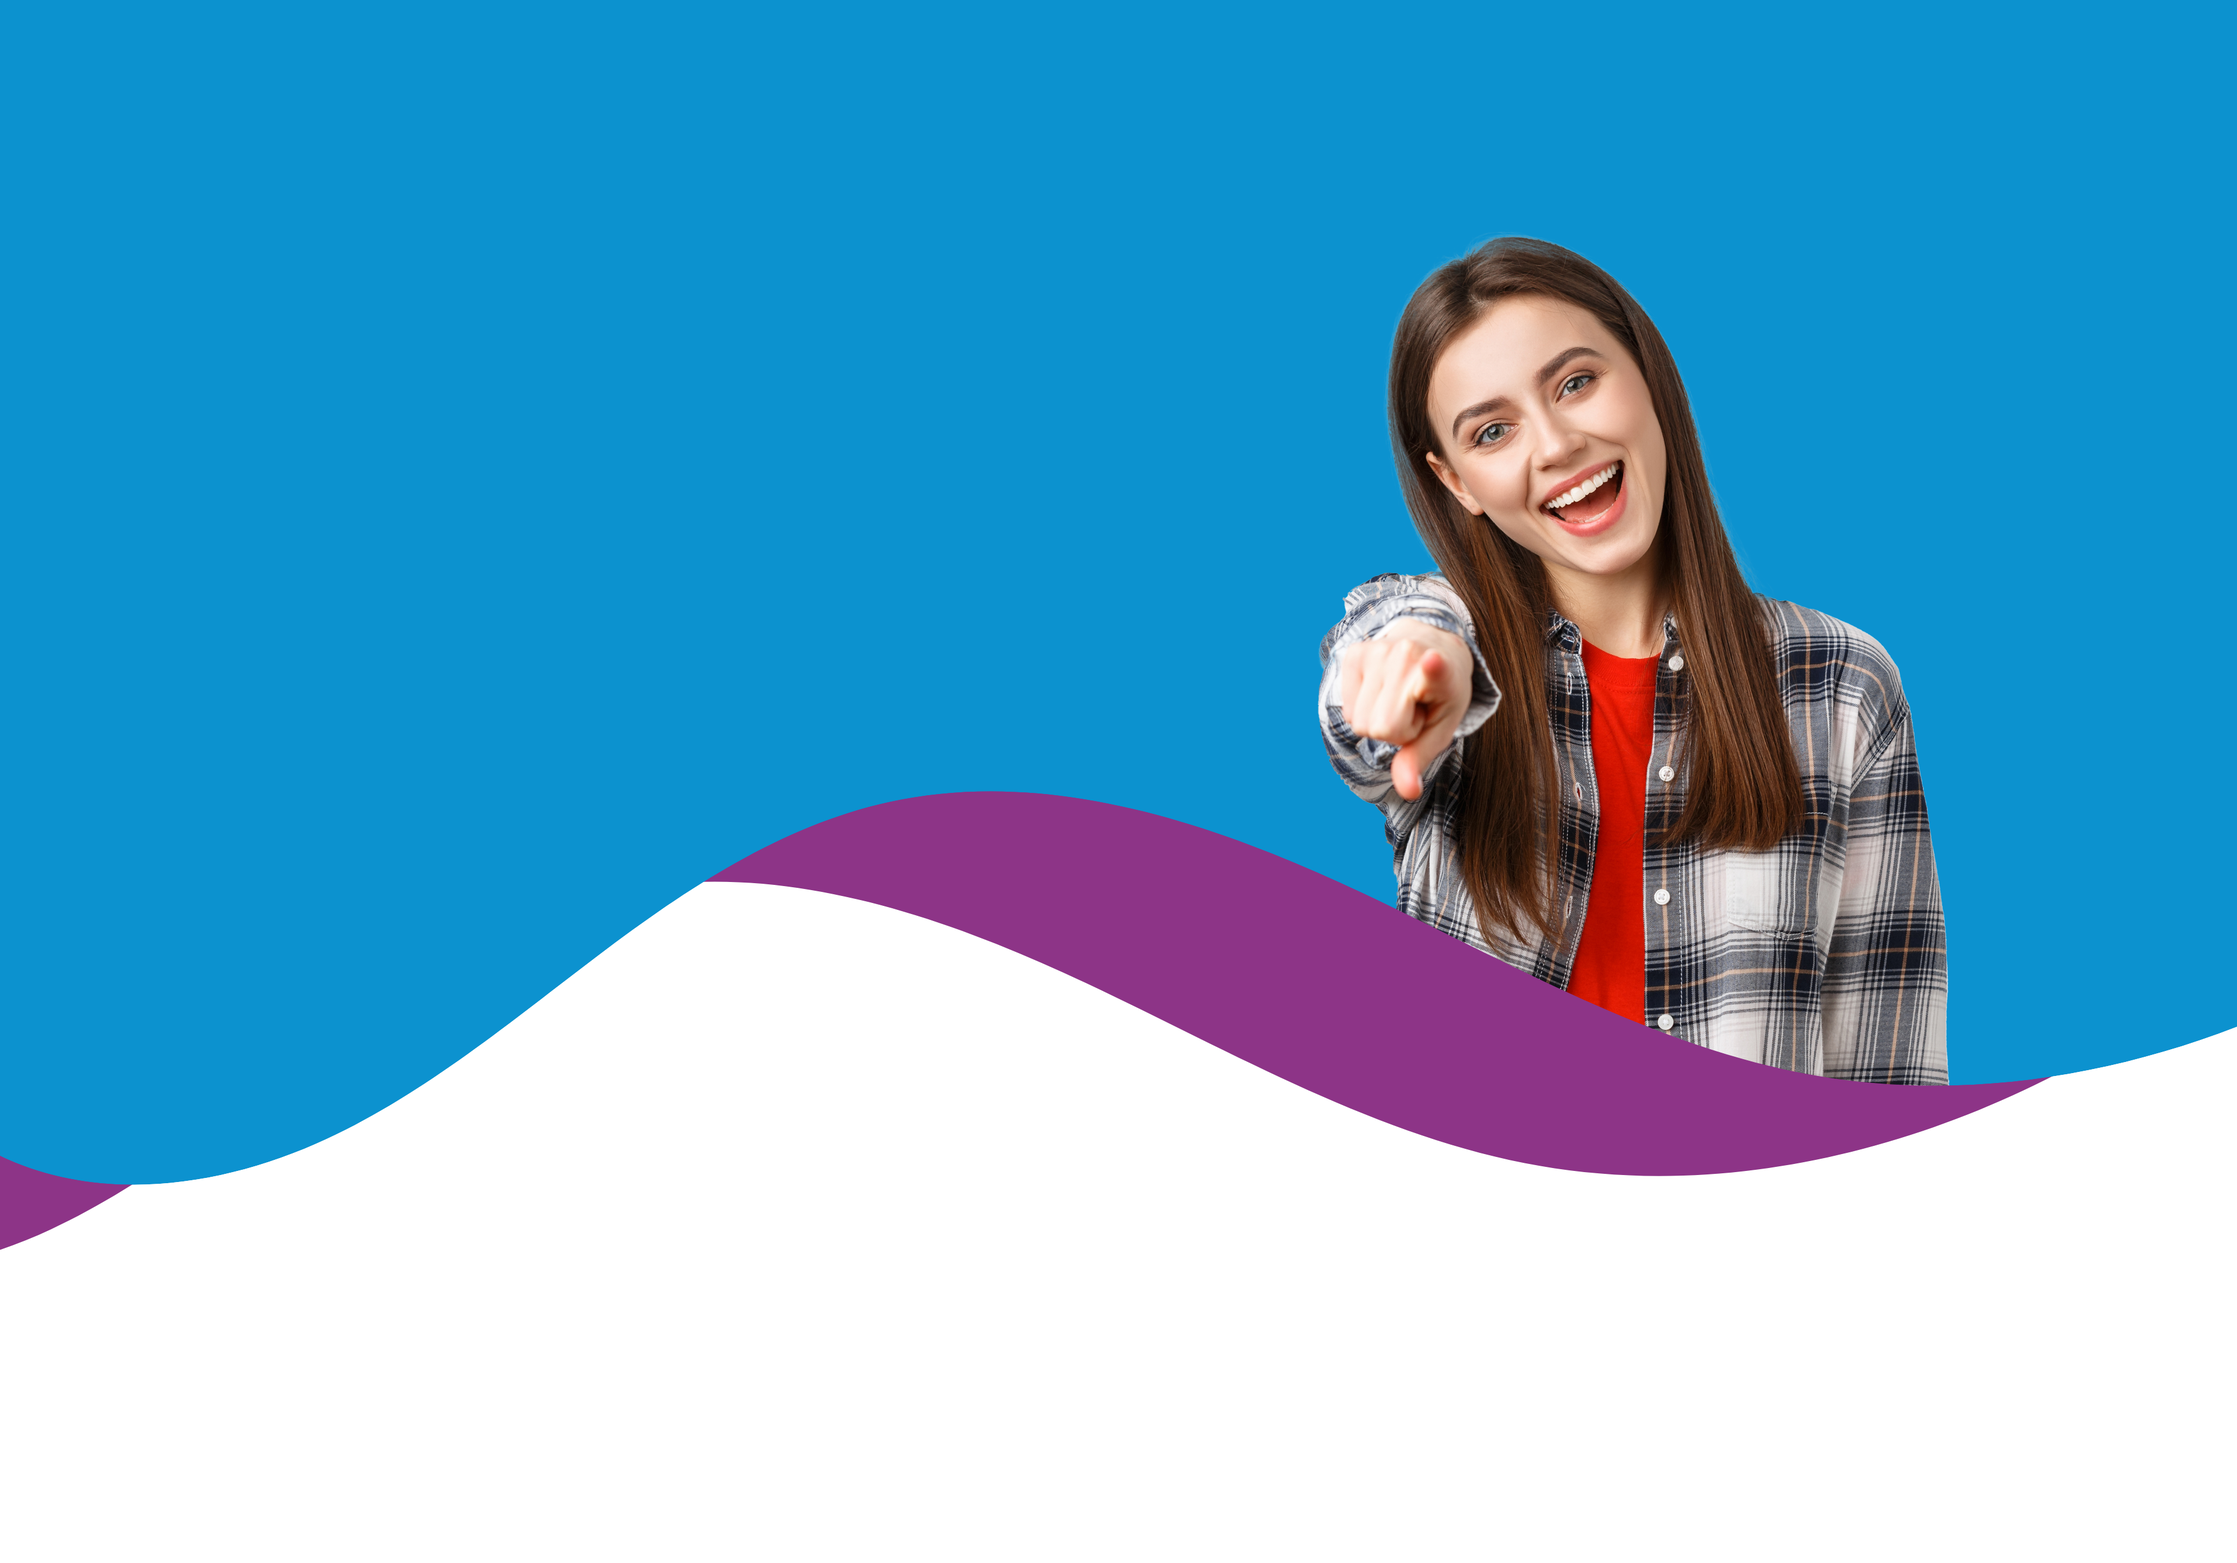
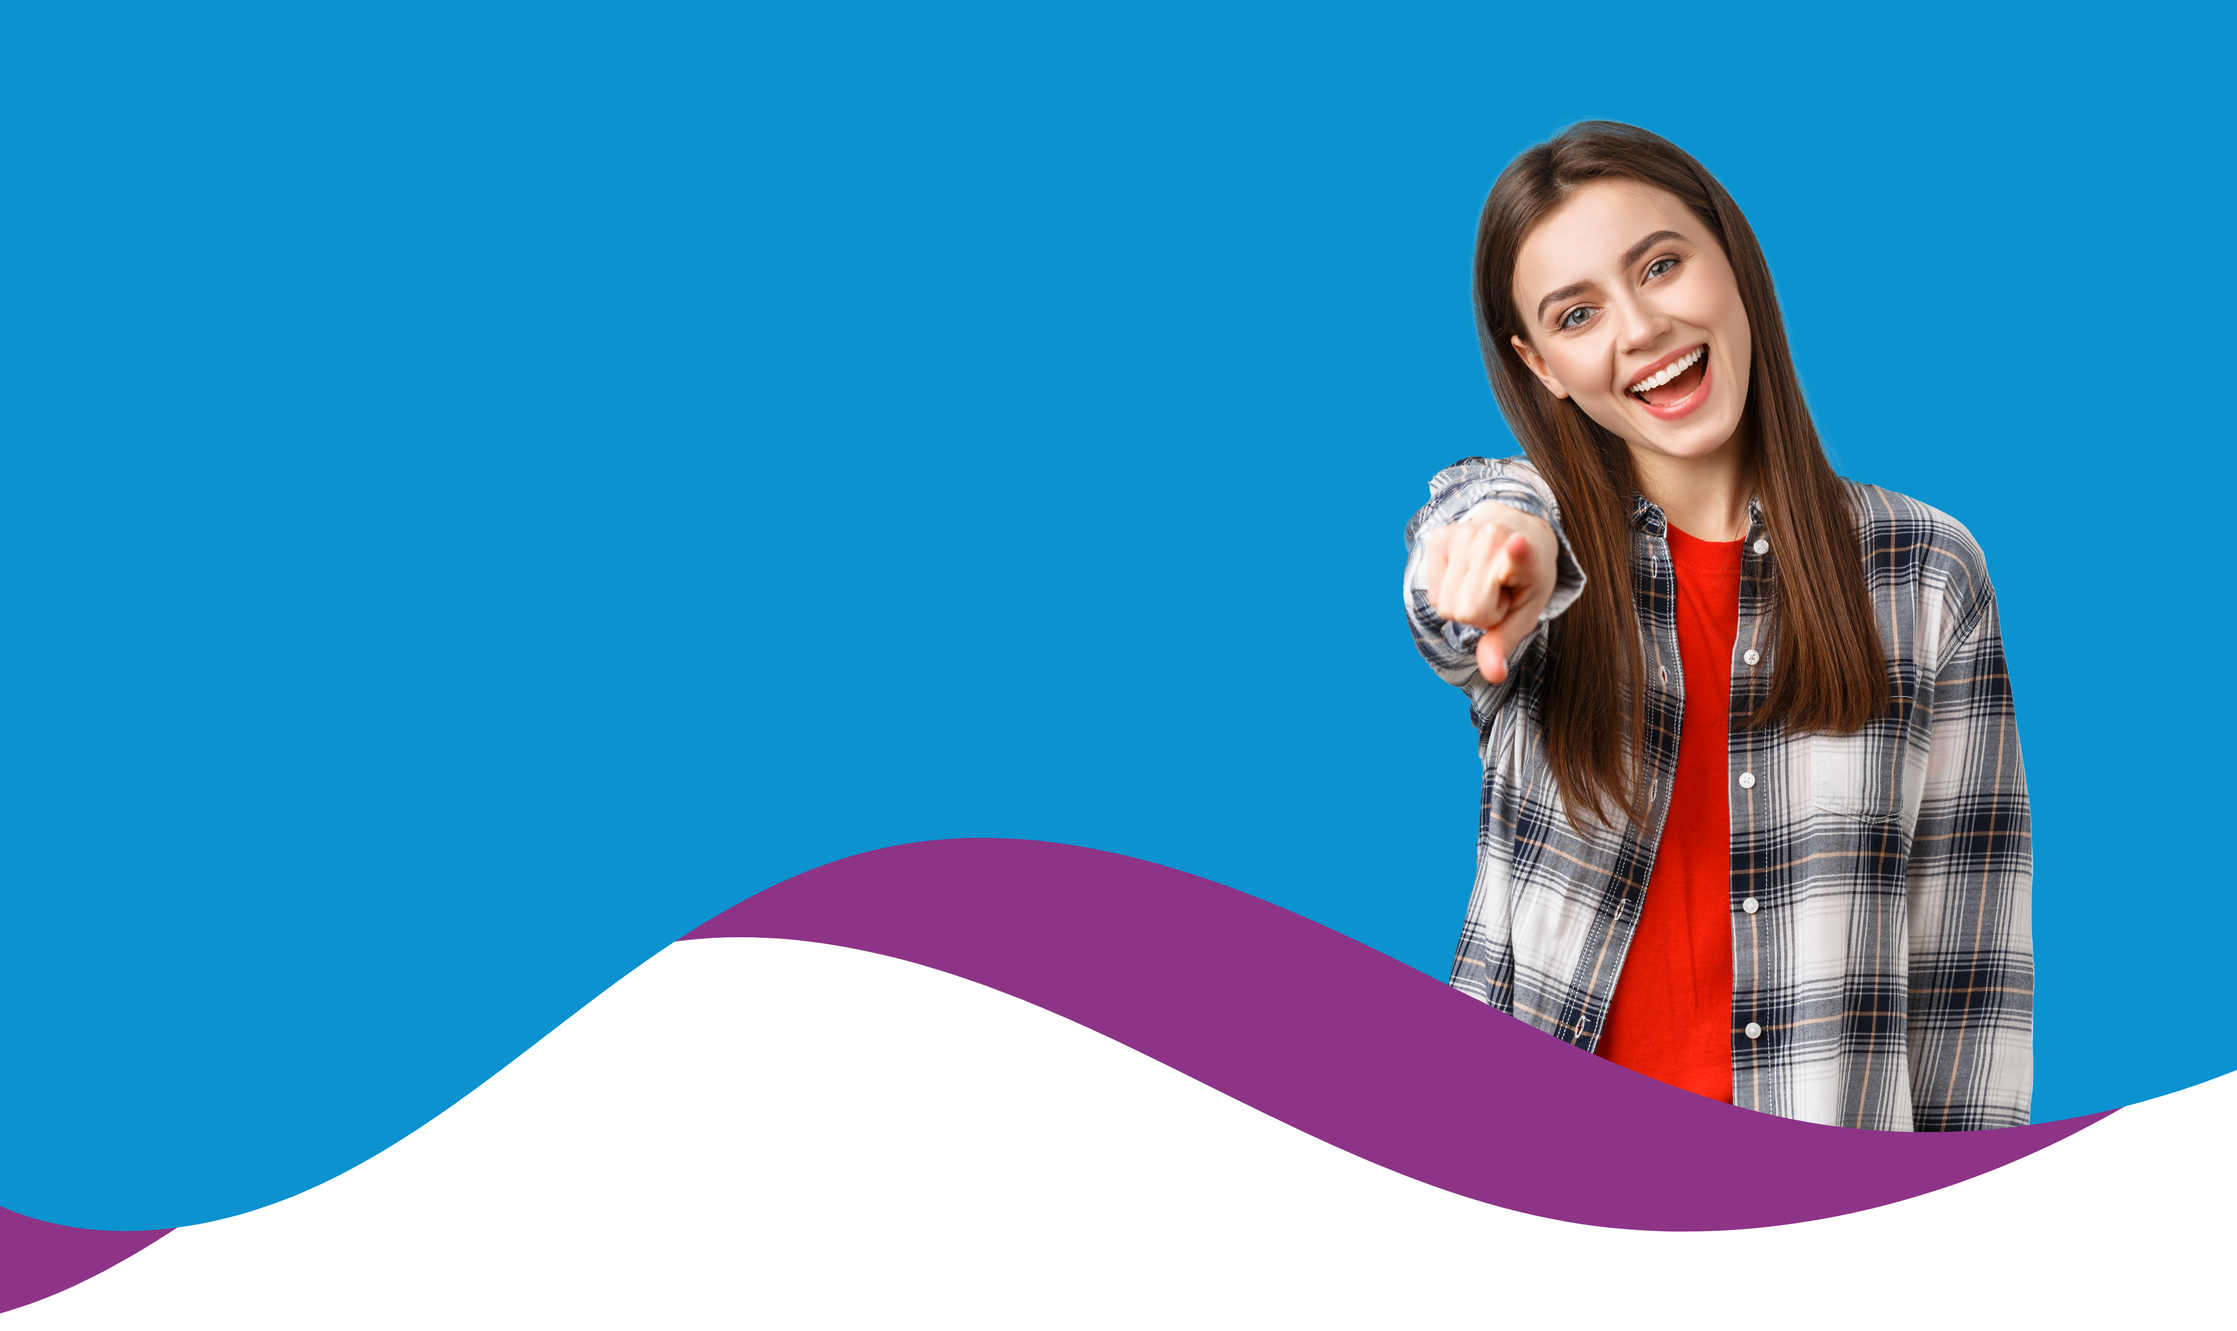
feat: :sparkles: UI components settings

diff --git a/src/pages/Landing/Landing.tsx b/src/pages/Landing/Landing.tsx
@@ -1,17 +1,20 @@
 import React, { useEffect, useState } from 'react'
-import bannerBgImage from '/images/img-main-banner.png'
-import ciomprixLogo from '/images/ciomprix-logo-white.svg'
 import { CategoriesCard, SolutionMiniCard } from '../../components'
-import styles from './Landing.module.scss'
-import { useMainContext } from '../../context'
 import { CarouselSection } from '../../components/CarouselSection'
 import { ICategory } from '../../interfaces'
-import { Link } from 'react-router-dom'
+import { useMainContext } from '../../context'
+import useScreenSize from '../../hooks/useScreenSize'
+
+import bannerBgImage from '/images/img-main-banner.png'
+import bannerBgMobile from '/images/img-main-banner-mobile.png'
+import ciomprixLogo from '/images/ciomprix-logo-white.svg'
+import styles from './Landing.module.scss'
 
 export const Landing = () => {
 
     const { solutions, categories, fetching, getCategoryByIdSolution } = useMainContext()
     const [categoriesBySolution, setCategoriesBySolution] = useState<ICategory[]>([])
+    const { width } = useScreenSize() 
 
     const getCategoriesBySolution = (id_solution: number): ICategory[] => {
         return categories.filter(category => category.id_s === id_solution)
@@ -23,47 +26,48 @@ export const Landing = () => {
     // }, [categoriesBySolution])
 
     return (
-        <div className="bg-white w-full h-full">
+        <div>
+            <header className="flex justify-between items-center px-7 md:px-28 py-5 bg-blue-primary">
+                <figure className="w-40 md:w-auto">
+                    <img src={ciomprixLogo} className='' alt="logo" />
+                </figure>
+
+                <div className="flex-1"></div>
+
+                <ul className="flex-1 justify-between items-center gap-10 hidden md:flex">
+                    <li>item 1</li>
+                    <li>item 2</li>
+                    <li>item 3</li>
+                    <li>item 4</li>
+                </ul>
+            </header>
             <div
-                className={`${styles.landing__banner}`}
+                className={`${styles.landing__banner} mb-5`}
                 style={{
-                    backgroundImage: `url(${bannerBgImage})`
+                    backgroundImage: `url(${width > 1024 ? bannerBgImage : bannerBgMobile})`,
                 }}
             >
-                <header className="flex justify-between items-center px-7 md:px-28 py-5">
-                    <figure>
-                        <img src={ciomprixLogo} alt="logo" />
-                    </figure>
-
-                    <div className="flex-1"></div>
-
-                    <ul className="flex flex-1 justify-between items-center gap-10">
-                        <li>item 1</li>
-                        <li>item 2</li>
-                        <li>item 3</li>
-                        <li>item 4</li>
-                    </ul>
-                </header>
-
-                <section className="w-full max-w-[1500px] mx-auto px-7 md:px-32 my-28">
-                    <h1 className="font-bold text-7xl w-2/4 mb-7">Conoce nuestro portafolio de servicios</h1>
-                    <p className="text-4xl font-normal w-2/4">La forma de generar aprendizaje mas facil</p>
-
-                    <div className={styles.landing__solutions_container}>
-                        {
-                            solutions.map(({ id, img_s, tittle_s }) => (
-                                <SolutionMiniCard key={id} image={img_s} title={tittle_s} />
-                            ))
-                        }
-                    </div>
+                <section className="w-full max-w-[1800px] mx-auto px-7 md:px-32 py-16 lg:py-20">
+                    <h1 className="title max-w-xs mx-auto lg:max-w-lg 2xl:max-w-3xl lg:mx-0 mb-7 text-center lg:text-left">Conoce nuestro portafolio de servicios</h1>
+                    <p className="subtitle max-w-xs mx-auto lg:max-w-lg 2xl:max-w-3xl lg:mx-0 text-center lg:text-left">La forma de generar aprendizaje mas facil</p>
                 </section>
 
             </div>
+
+            <div className={`${styles.landing__solutions_container} mx-auto px-7 md:px-32`}>
+                {
+                    solutions.map(({ id, img_s, tittle_s }) => (
+                        <SolutionMiniCard key={id} image={img_s} title={tittle_s} />
+                    ))
+                }
+            </div>
+
+
             {
-                solutions.map(solution => (
-                    <CarouselSection key={solution.id} element={solutions} title={solution.tittle_s}>
+                solutions.map((solution, i) => (
+                    <CarouselSection key={solution.id} element={solutions} title={solution.tittle_s} className={`${i === 0 ? 'mt-40' : 0}`}>
                         {getCategoriesBySolution(solution.id).map(category => (
-                           <CategoriesCard category={category} />
+                            <CategoriesCard category={category} />
                         ))}
                     </CarouselSection>
                 ))

diff --git a/src/pages/CategoryDetail/CategoryDetail.tsx b/src/pages/CategoryDetail/CategoryDetail.tsx
@@ -1,0 +1,76 @@
+import React, { useEffect } from 'react'
+import { useParams } from 'react-router-dom'
+import { useMainContext } from '../../context'
+import { ContentCard } from '../../components'
+
+import { faArrowLeft } from "@fortawesome/free-solid-svg-icons"
+import { FontAwesomeIcon } from "@fortawesome/react-fontawesome"
+
+import ciomprixLogo from '/images/ciomprix-logo-gray.svg'
+import styles from './CategoryDetail.module.scss'
+
+export const CategoryDetail = () => {
+
+    const { id } = useParams()
+    const { getCategoryById, categoryByID, getSolutionByID, solutionByID, getContentByCategory, contentsByCategory, fetching } = useMainContext()
+
+    useEffect(() => {
+        getCategoryById(Number(id))
+    }, [])
+
+    useEffect(() => {
+        if (!categoryByID) return
+        getSolutionByID(categoryByID.id_s)
+        getContentByCategory(categoryByID.id)
+    }, [categoryByID])
+
+
+    if (fetching) return <h1 className="text-black">Cargando...</h1>
+
+    return (
+        <main>
+            <header className="flex justify-between items-center px-7 md:px-28 py-5 bg-light-gray">
+                <figure>
+                    <img src={ciomprixLogo} alt="logo" />
+                </figure>
+
+                <div className="flex-1"></div>
+
+                <ul className="flex flex-1 justify-between items-center text-gray-500 gap-10">
+                    <li>item 1</li>
+                    <li>item 2</li>
+                    <li>item 3</li>
+                    <li>item 4</li>
+                </ul>
+            </header>
+
+            <section
+                style={{
+                    backgroundImage: `url(${solutionByID ? solutionByID.img_banner_s : ''})`,
+                }}
+                className={`${styles.category_detail__banner} `}
+            >
+                <div className="px-7 md:px-28 max-w-[1800px] mx-auto flex flex-col justify-start pt-20 h-full">
+                    <div className="text-[#191934] text-base font-medium flex items-center gap-5 mb-10 cursor-pointer">
+                        <FontAwesomeIcon icon={faArrowLeft} />
+                        <span> Volver</span>
+                    </div>
+                    <h1 className="text-[#191934] text-7xl font-bold w-2/5 mb-10">{solutionByID?.tittle_s}</h1>
+                    <p className="text-[#191934] text-lg font-medium w-1/3">{categoryByID?.description_c}</p>
+                </div>
+            </section>
+
+            <section className="px-7 md:px-28 max-w-[1800px] mx-auto my-10">
+                <h2 className="text-[#191934] text-3xl font-medium mb-10 pb-5 border-b-[1px] border-[#191934]">{categoryByID?.tittle_c}</h2>
+
+                <div className={`${styles.contents__container}`}>
+                    {
+                        contentsByCategory && contentsByCategory.map( content => (
+                            <ContentCard content={content} />
+                        ))
+                    }
+                </div>
+            </section>
+        </main>
+    )
+}

diff --git a/src/components/CarouselSection/CarouselSection.tsx b/src/components/CarouselSection/CarouselSection.tsx
@@ -11,10 +11,11 @@ import styles from './CarouselSection.module.scss'
 interface CarouselSectionProps {
     children: ReactNode;
     title: string;
-    element: ISolutions[]
+    element: ISolutions[];
+    className?: string;
 }
 
-export const CarouselSection = ({ children, title, element }: CarouselSectionProps) => {
+export const CarouselSection = ({ children, title, element, className }: CarouselSectionProps) => {
 
     const { width } = useScreenSize()
 
@@ -92,7 +93,7 @@ export const CarouselSection = ({ children, title, element }: CarouselSectionPro
     if (!element) return null
 
     return (
-        <section className='w-full px-7 md:px-28 max-w-[1500px] my-24 text-black' ref={widthUsableRef}>
+        <section className={`w-full px-7 md:px-28 max-w-[1500px] my-24 mx-auto text-black ${className}`} ref={widthUsableRef}>
             <h3 className='text-3xl lg:text-4xl font-medium'>{title}</h3>
             {(element.length > jump && identifyDevice() === "computer"/*Identificador de dispositivo*/) &&
                 <div className={`flex flex-row flex-nowrap justify-end my-1 h-8`}>

diff --git a/src/components/ContentCard/ContentCard.tsx b/src/components/ContentCard/ContentCard.tsx
@@ -1,0 +1,28 @@
+import React from 'react'
+import styles from './ContentCard.module.scss'
+import { IContent } from '../../interfaces'
+
+interface ContentCardProps {
+    content: IContent;
+}
+
+export const ContentCard = ({ content }: ContentCardProps) => {
+    return (
+        <div
+            style={{
+                backgroundImage: `url(${content.img_sc})`,
+                backgroundPosition: 'center'
+            }}
+            className={`${styles.content__card} bg-cover w-full h-[370px] rounded-3xl relative overflow-hidden`}
+        >
+            <div className={`${styles.content__card__backdrop}`}>
+                <h4 className='w-full px-4 mb-6 openBold text-base xl:text-xl text-center font-medium'>{content.tittle_sc}</h4>
+                <button
+                    className='w-24 py-1 mb-8 bg-blue-500 px-6 text-white rounded-full text-l text-center openMedium transition-all duration-200 hover:scale-110 hover:text-white'
+                >
+                    Ir
+                </button>
+            </div>
+        </div>
+    )
+}

diff --git a/src/pages/Landing/Landing.module.scss b/src/pages/Landing/Landing.module.scss
@@ -1,14 +1,27 @@
 .landing__banner {
     width: 100%;
-    height: 115vh;
-    background-size: 100% auto;
+    height: 500px;
+    background-size: 100% 100%;
     background-position: 70% 0%;
     background-repeat: no-repeat;
 }
 
 .landing__solutions_container {
     display: grid;
-    grid-template-columns: repeat(4, 1fr);
+    grid-template-columns: repeat(auto-fit, minmax(250px, 1fr));
     gap: 40px;
-    margin-top: 200px;
+    width: 100%;
+    max-width: 1800px;
 }
+
+@media screen and (min-width:1024px) {
+    .landing__banner {
+        height: 700px;
+    }
+}
+
+// @media screen and (min-width: 1375px) {
+//     .landing__solutions_container {
+//         bottom: 0;
+//     }
+// }

diff --git a/src/index.css b/src/index.css
@@ -37,8 +37,18 @@ a:hover {
   width: 100vw;
   min-height: 100vh;
   height: 100%;
-  background-color: #fff;
+  background-color: #EBEBEB;
   overflow-x: hidden;
+}
+
+.title {
+  font-size: 40px;
+  font-weight: bold;
+}
+
+.subtitle {
+  font-size: 24px;
+  font-weight: 400;
 }
 
 body {
@@ -83,5 +93,25 @@ button:focus-visible {
   }
   button {
     background-color: #f9f9f9;
+  }
+}
+
+@media screen and (min-width: 1024px) {
+  .title {
+    font-size: 56px;
+  }
+
+  .subtitle {
+    font-size: 30px;
+  }
+}
+
+@media screen and (min-width:1536px) {
+  .title {
+    font-size: 72px;
+  }
+
+  .subtitle {
+    font-size: 36px;
   }
 }

diff --git a/src/components/CategoriesCard/CategoriesCard.tsx b/src/components/CategoriesCard/CategoriesCard.tsx
@@ -19,7 +19,7 @@ export const CategoriesCard = ({ category }: CategoriesCardProps) => {
             <div className={`${styles.category__card__backdrop}`}>
                 <h4 className='w-full px-4 mb-6 openBold text-base xl:text-xl text-center font-medium'>{category.tittle_c}</h4>
                 <Link
-                    to={'/'}
+                    to={`/category/${category.id}`}
                     className='w-24 py-1 mb-8 bg-blue-500 px-6 text-white rounded-full text-l text-center openMedium transition-all duration-200 hover:scale-110 hover:text-white'
                 >
                     Ir

diff --git a/src/components/SolutionMiniCard/SolutionMiniCard.tsx b/src/components/SolutionMiniCard/SolutionMiniCard.tsx
@@ -10,7 +10,7 @@ export const SolutionMiniCard = ({ image, title }: SolutionMiniCardProps) => {
     return (
         <div className={`${styles.solution_mini_card} bg-dark-purple p-5 rounded-xl`}>
             <img 
-                src={image}
+                src={`${import.meta.env.VITE_API_URL_DEVELOPMENT}/${image}`}
                 className="mb-5 mx-auto"
                 alt="solution_image" 
             />

diff --git a/src/routes/AppRouter.tsx b/src/routes/AppRouter.tsx
@@ -1,12 +1,14 @@
 import React from 'react'
 import { Routes, Route } from 'react-router-dom'
 import { Landing } from '../pages'
+import { CategoryDetail } from '../pages/CategoryDetail'
 
 export const AppRouter = () => {
 
     return (
         <Routes>
             <Route path="/" element={<Landing />} />
+            <Route path="/category/:id" element={<CategoryDetail />} />
         </Routes>
     )
 }

diff --git a/src/components/ContentCard/ContentCard.module.scss b/src/components/ContentCard/ContentCard.module.scss
@@ -1,0 +1,17 @@
+.content__card:hover .content__card__backdrop {
+    display: flex;
+}
+
+.content__card__backdrop {
+    display: none;
+    flex-direction: column;
+    align-items: center;
+    justify-content: end;
+    position: absolute;
+    padding: 10px;
+    top: 0;
+    left: 0;
+    width: 100%;
+    height: 100%;
+    background-image: linear-gradient(transparent, #000000d8);
+}

diff --git a/src/pages/CategoryDetail/CategoryDetail.module.scss b/src/pages/CategoryDetail/CategoryDetail.module.scss
@@ -1,0 +1,16 @@
+.category_detail__banner {
+    background-size: 100% 100%;
+    background-position-y: top;
+    background-position-x: left;
+    background-repeat: no-repeat;
+    height: 650px;
+}
+
+.contents__container {
+    display: grid;
+    grid-template-columns: repeat(
+        auto-fit,
+        minmax(400px, 1fr)
+    );
+    gap: 40px;
+}

diff --git a/tailwind.config.js b/tailwind.config.js
@@ -8,7 +8,8 @@ export default {
     extend: {
       colors: {
         'blue-primary': '#0C92CF',
-        'dark-purple': '#191934'
+        'dark-purple': '#191934',
+        'light-gray': '#EBEBEB'
       }
     },
   },
